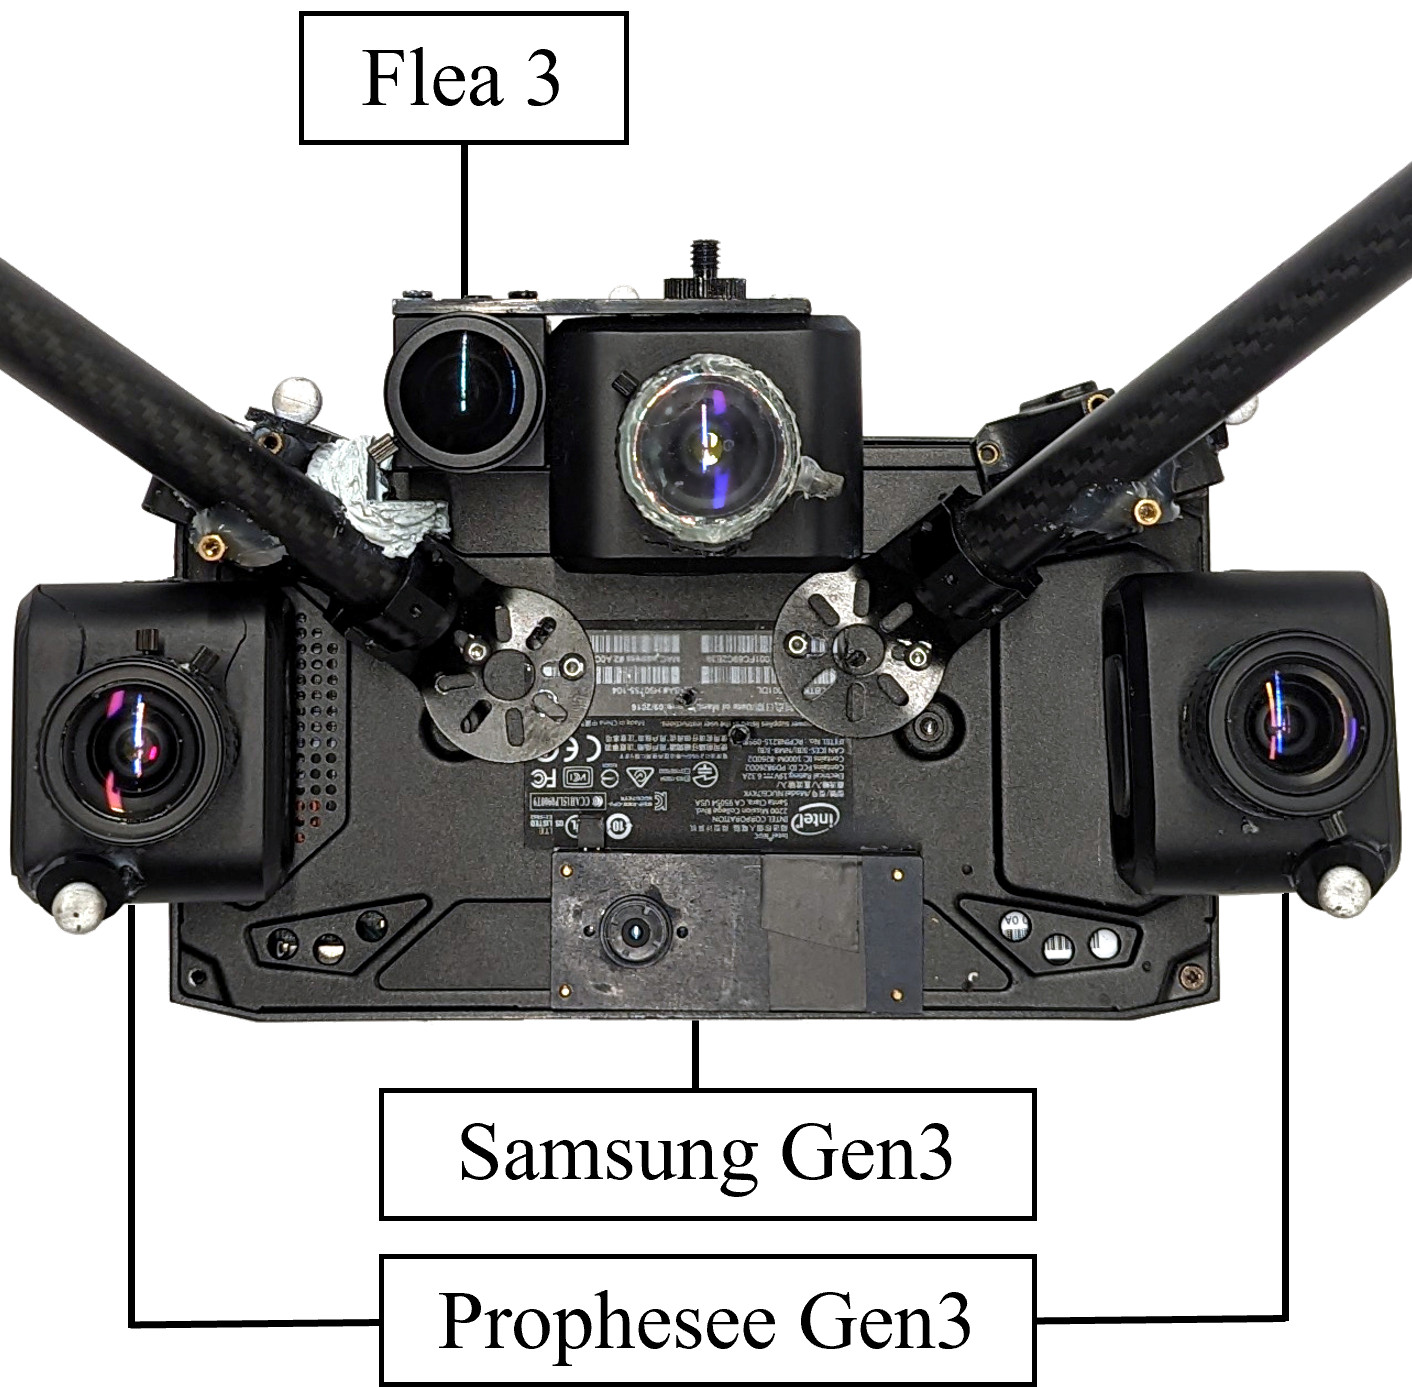
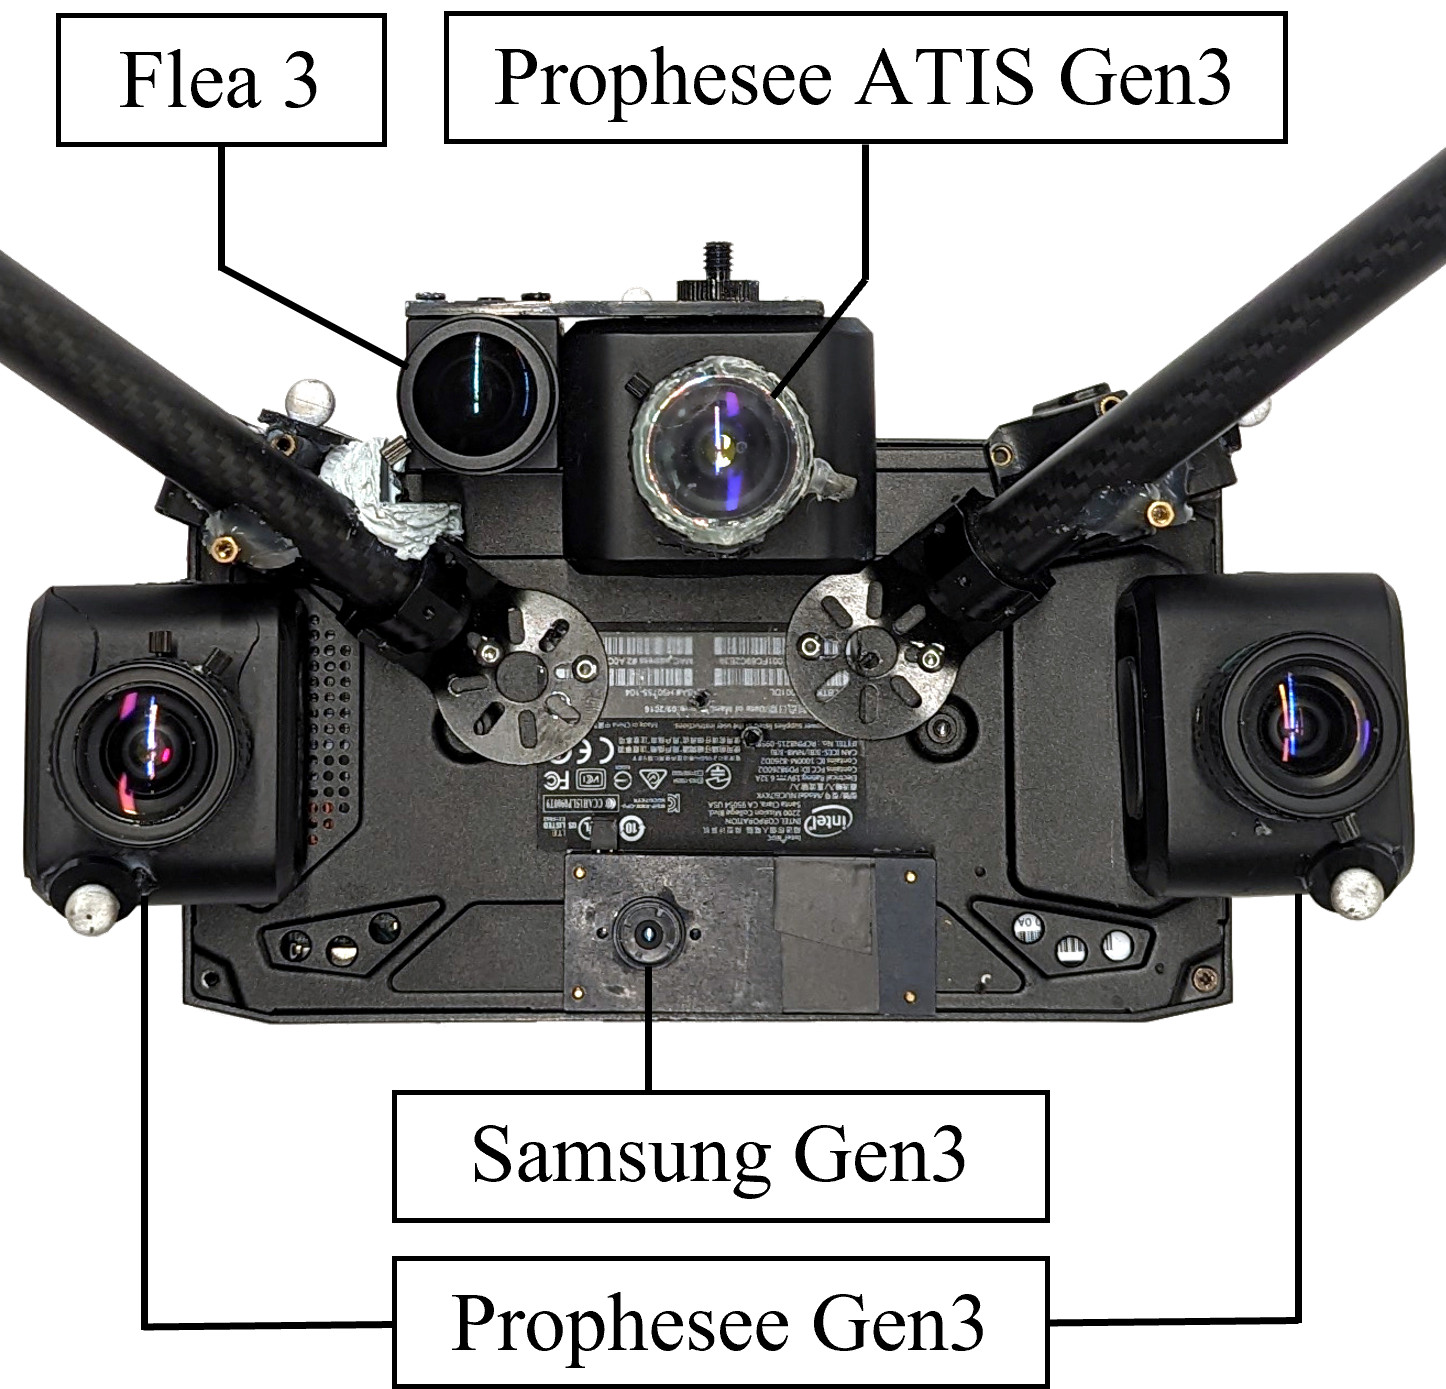
Fix EVIMO2 rig photo again

diff --git a/docs/download_evimo_2.html b/docs/download_evimo_2.html
@@ -128,6 +128,7 @@
               <li>FOV: ~65<span>&#176;</span> </li>
             </ul>
           </div>
+          <div class="row"> <h3> Prophesee Atis Gen3 (not used) </h3> </div>
         </div>
         <div class="col-md-4"> 
           <figure>

diff --git a/docs/download_evimo_2_v1.html b/docs/download_evimo_2_v1.html
@@ -140,6 +140,7 @@
 							<li>FOV: ~65<span>&#176;</span> </li>
 						</ul>
 					</div>
+					<div class="row"> <h3> Prophesee Atis Gen3 (not used) </h3> </div>
 				</div>
 				<div class="col-md-4"> 
 					<figure>
